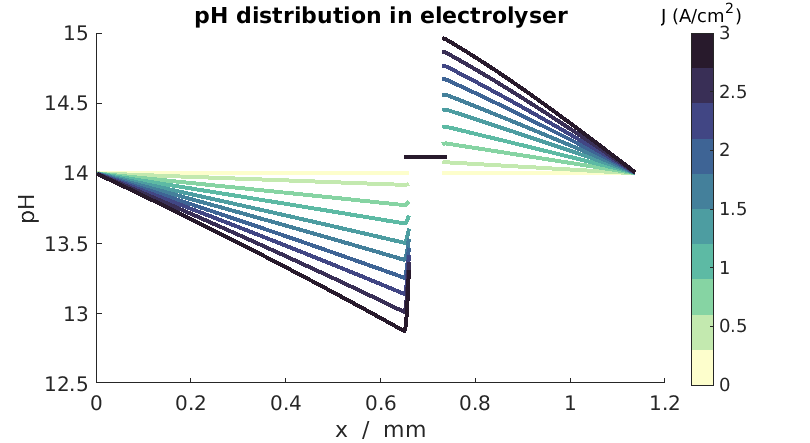
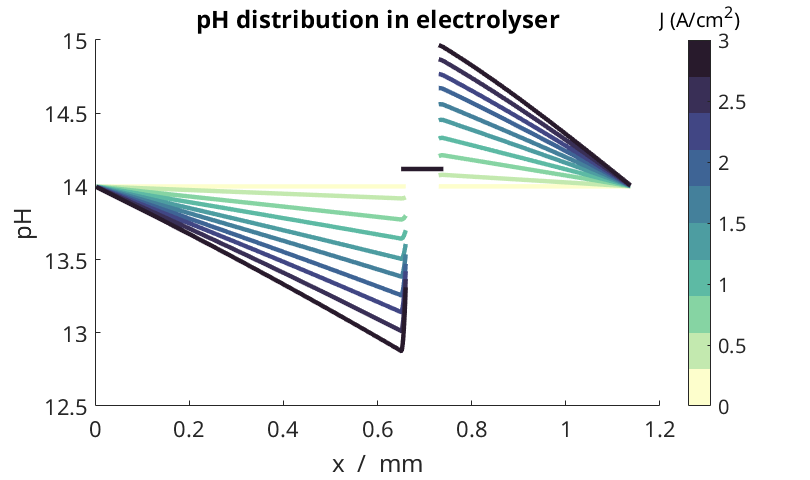
update in doc

diff --git a/Documentation/publishedExamples/runElectrolyser_source.rst b/Documentation/publishedExamples/runElectrolyser_source.rst
@@ -115,57 +115,52 @@ Source code for runElectrolyser
   % We consider the three domains and plot the pH in each of those. We setup the helper structures to iterate over each
   % domain for the plot.
   
-  doplot = false;
+  models = {model.(oer).(ptl), ...
+            model.(her).(ptl), ...
+            model.(inm)};
   
-  if doplot
+  fields = {{'OxygenEvolutionElectrode', 'PorousTransportLayer', 'concentrations', 2}  , ...
+            {'HydrogenEvolutionElectrode', 'PorousTransportLayer', 'concentrations', 2}, ...
+            {'IonomerMembrane', 'cOH'}};
   
-      models = {model.(oer).(ptl), ...
-                model.(her).(ptl), ...
-                model.(inm)};
+  h = figure();
+  set(h, 'position', [10, 10, 800, 450]);
+  hold on
   
-      fields = {{'OxygenEvolutionElectrode', 'PorousTransportLayer', 'concentrations', 2}  , ...
-                {'HydrogenEvolutionElectrode', 'PorousTransportLayer', 'concentrations', 2}, ...
-                {'IonomerMembrane', 'cOH'}};
+  ntime = numel(time);
+  times = linspace(1, ntime, 10);
+  cmap  = cmocean('deep', 10);
   
-      h = figure();
-      set(h, 'position', [10, 10, 800, 450]);
-      hold on
+  for ifield = 1 : numel(fields)
   
-      ntime = numel(time);
-      times = linspace(1, ntime, 10);
-      cmap  = cmocean('deep', 10);
+      fd       = fields{ifield};
+      submodel = models{ifield};
   
-      for ifield = 1 : numel(fields)
+      x    = submodel.grid.cells.centroids;
   
-          fd       = fields{ifield};
-          submodel = models{ifield};
+      for itimes = 1 : numel(times);
   
-          x    = submodel.G.cells.centroids;
+          itime = floor(times(itimes));
+          % The method :code:`getProp` is used to recover the value from the state structure
+          val   = model.getProp(states{itime}, fd);
+          pH    = 14 + log10(val/(mol/litre));
   
-          for itimes = 1 : numel(times);
-  
-              itime = floor(times(itimes));
-              % The method :code:`getProp` is used to recover the value from the state structure
-              val   = model.getProp(states{itime}, fd);
-              pH    = 14 + log10(val/(mol/litre));
-  
-              % plot of pH for the current submodel.
-              plot(x/(milli*meter), pH, 'color', cmap(itimes, :));
-  
-          end
+          % plot of pH for the current submodel.
+          plot(x/(milli*meter), pH, 'color', cmap(itimes, :));
   
       end
   
-      xlabel('x  /  mm');
-      ylabel('pH');
-      title('pH distribition in electrolyser')
-  
-      colormap(cmap)
-      hColorbar = colorbar;
-      caxis([0 3]);
-      hTitle = get(hColorbar, 'Title');
-      set(hTitle, 'string', 'J (A/cm^2)');
   end
+  
+  xlabel('x  /  mm');
+  ylabel('pH');
+  title('pH distribution in electrolyser')
+  
+  colormap(cmap)
+  hColorbar = colorbar;
+  caxis([0 3]);
+  hTitle = get(hColorbar, 'Title');
+  set(hTitle, 'string', 'J (A/cm^2)');
   
   %{
   Copyright 2021-2024 SINTEF Industry, Sustainable Energy Technology

diff --git a/Documentation/publishedExamples/runElectrolyser.rst b/Documentation/publishedExamples/runElectrolyser.rst
@@ -148,57 +148,55 @@ We consider the three domains and plot the pH in each of those. We setup the hel
 
 .. code-block:: matlab
 
-  doplot = false;
+  models = {model.(oer).(ptl), ...
+            model.(her).(ptl), ...
+            model.(inm)};
   
-  if doplot
+  fields = {{'OxygenEvolutionElectrode', 'PorousTransportLayer', 'concentrations', 2}  , ...
+            {'HydrogenEvolutionElectrode', 'PorousTransportLayer', 'concentrations', 2}, ...
+            {'IonomerMembrane', 'cOH'}};
   
-      models = {model.(oer).(ptl), ...
-                model.(her).(ptl), ...
-                model.(inm)};
+  h = figure();
+  set(h, 'position', [10, 10, 800, 450]);
+  hold on
   
-      fields = {{'OxygenEvolutionElectrode', 'PorousTransportLayer', 'concentrations', 2}  , ...
-                {'HydrogenEvolutionElectrode', 'PorousTransportLayer', 'concentrations', 2}, ...
-                {'IonomerMembrane', 'cOH'}};
+  ntime = numel(time);
+  times = linspace(1, ntime, 10);
+  cmap  = cmocean('deep', 10);
   
-      h = figure();
-      set(h, 'position', [10, 10, 800, 450]);
-      hold on
+  for ifield = 1 : numel(fields)
   
-      ntime = numel(time);
-      times = linspace(1, ntime, 10);
-      cmap  = cmocean('deep', 10);
+      fd       = fields{ifield};
+      submodel = models{ifield};
   
-      for ifield = 1 : numel(fields)
+      x    = submodel.grid.cells.centroids;
   
-          fd       = fields{ifield};
-          submodel = models{ifield};
+      for itimes = 1 : numel(times);
   
-          x    = submodel.G.cells.centroids;
+          itime = floor(times(itimes));
+          % The method :code:`getProp` is used to recover the value from the state structure
+          val   = model.getProp(states{itime}, fd);
+          pH    = 14 + log10(val/(mol/litre));
   
-          for itimes = 1 : numel(times);
-  
-              itime = floor(times(itimes));
-              % The method :code:`getProp` is used to recover the value from the state structure
-              val   = model.getProp(states{itime}, fd);
-              pH    = 14 + log10(val/(mol/litre));
-  
-              % plot of pH for the current submodel.
-              plot(x/(milli*meter), pH, 'color', cmap(itimes, :));
-  
-          end
+          % plot of pH for the current submodel.
+          plot(x/(milli*meter), pH, 'color', cmap(itimes, :));
   
       end
   
-      xlabel('x  /  mm');
-      ylabel('pH');
-      title('pH distribition in electrolyser')
-  
-      colormap(cmap)
-      hColorbar = colorbar;
-      caxis([0 3]);
-      hTitle = get(hColorbar, 'Title');
-      set(hTitle, 'string', 'J (A/cm^2)');
   end
+  
+  xlabel('x  /  mm');
+  ylabel('pH');
+  title('pH distribution in electrolyser')
+  
+  colormap(cmap)
+  hColorbar = colorbar;
+  caxis([0 3]);
+  hTitle = get(hColorbar, 'Title');
+  set(hTitle, 'string', 'J (A/cm^2)');
+
+.. figure:: runElectrolyser_02.png
+  :figwidth: 100%
 
 
 

diff --git a/Documentation/publishedExamples/runProtonicCell.rst b/Documentation/publishedExamples/runProtonicCell.rst
@@ -8,6 +8,7 @@ PEM electrolyser with Gas Supply
 
 .. include:: runProtonicCellPreamble.rst
 
+
 json input data
 ===============
 We load the input data that is given by json structures. The physical properties of the supply gas layer is given in the json file :battmofile:`gas-supply-whole-cell.json <ProtonicMembrane/jsonfiles/gas-supply-whole-cell.json>`
